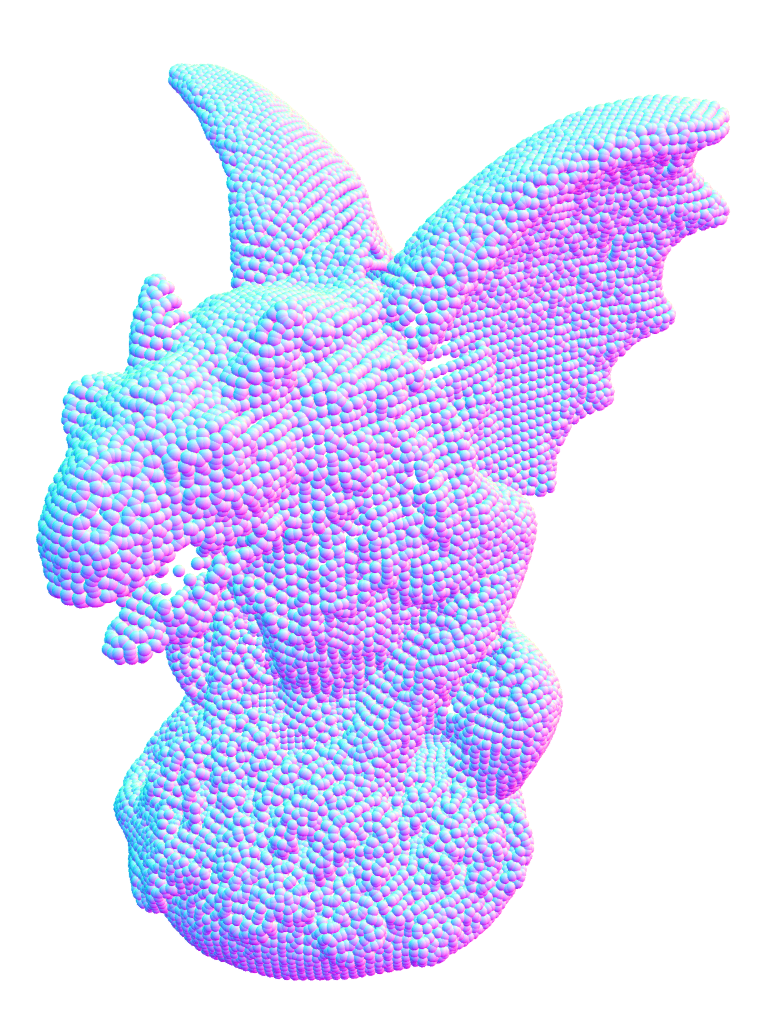
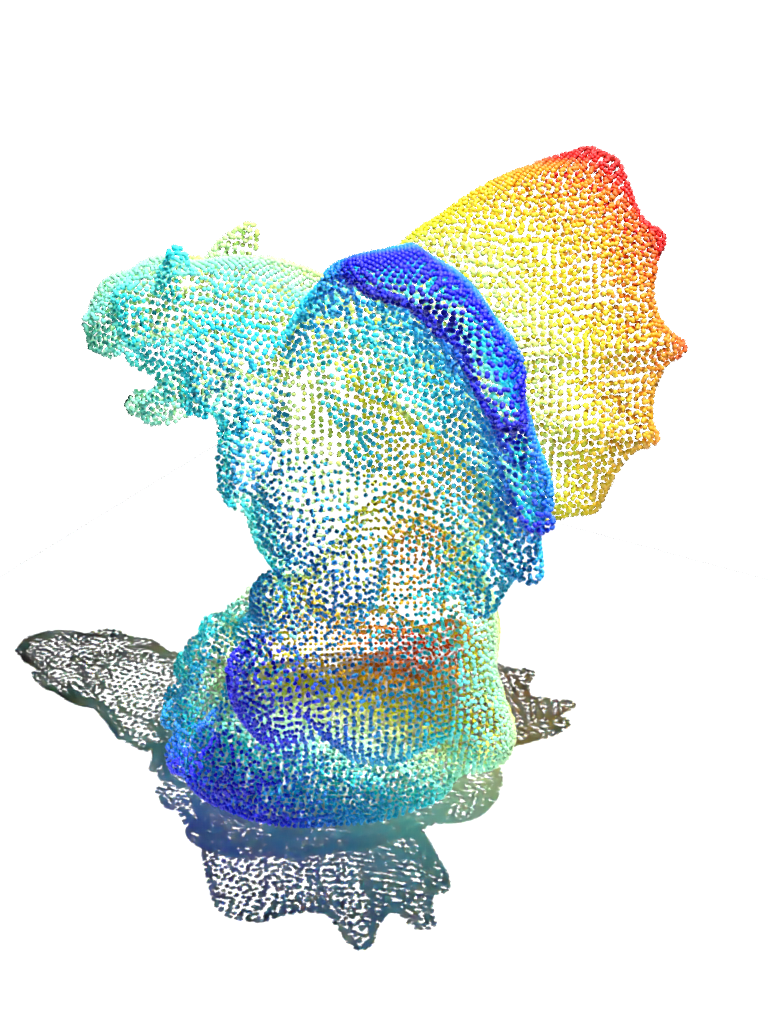
rendering gif working well

diff --git a/example/python/render.py b/example/python/render.py
@@ -49,7 +49,7 @@ class BlenderRender:
 
         self.remove_model = True
 
-        self.rotate = False
+        self.rotation = None
 
         collection = bpy.data.collections.get("Collection")
         if collection:
@@ -77,7 +77,7 @@ class BlenderRender:
 
 
 
-    def add_camera(self, cam_file, resolution=(1024, 1024)):
+    def add_camera(self, cam_file, resolution=(1024, 1024), frames=None):
 
 
 
@@ -105,11 +105,21 @@ class BlenderRender:
         bpy.context.scene.render.resolution_x = resolution[0]
         bpy.context.scene.render.resolution_y = resolution[1]
 
+
+
+        self.camera.keyframe_insert(data_path='location',frame=0)
+
+        self.camera.location = self.rotate(location,(0,math.pi/5,-math.pi/2))
+        self.camera.keyframe_insert(data_path='location',frame=frames-1)
+
+        ttc=self.camera.constraints.new(type='TRACK_TO')
+        ttc.target = self.object
+
         bpy.context.scene.camera = self.camera
 
 
 
-    def add_light(self, location, energy=15):
+    def add_light(self, location, energy=1000000):
 
         # create light datablock, set attributes
         light_data = bpy.data.lights.new(name="light", type='POINT')
@@ -221,7 +231,14 @@ class BlenderRender:
         return MplColorHelper(cmap, points[:, axis].min(), points[:, axis].max()).get_rgb(sign * points[:, axis])
         # cols=MplColorHelper(cmap, accuracy.min(), accuracy.max()).get_rgb(accuracy)
 
-    def render_point_cloud(self, file, rotate=None, out=None):
+    def rotate(self, object, rotation_vector):
+
+
+        return object @ Matrix.Rotation(-rotation_vector[0], 3, "X") \
+               @ Matrix.Rotation(-rotation_vector[1], 3, "Y") \
+               @ Matrix.Rotation(   -rotation_vector[2], 3, "Z")
+
+    def add_point_cloud(self, file, rotation=None, out=None):
 
 
         """this is the one to use for point cloud rendering"""
@@ -245,13 +262,12 @@ class BlenderRender:
         else:
             print("ERROR: {} is not a supported file ending for point cloud rendering".format(os.path.splitext(file)[1]))
 
-        if rotate is not None:
-            points = points @ Matrix.Rotation(-rotate[0], 3, "X") @ Matrix.Rotation(-rotate[1], 3,
-                                                                                         "Y") @ Matrix.Rotation(
-                -rotate[2], 3, "Z")
-            normals = normals @ Matrix.Rotation(-rotate[0], 3, "X") @ Matrix.Rotation(-rotate[1], 3,
-                                                                                           "Y") @ Matrix.Rotation(
-                -rotate[2], 3, "Z")
+        if rotation is not None:
+            points = self.rotate(points,rotation)
+            normals = self.rotate(normals,rotation)
+
+
+        self.model_bb = np.array((points.min(axis=0),points.max(axis=0)))
 
 
         # # normals to rotmat
@@ -287,21 +303,64 @@ class BlenderRender:
                      randomize_rotation=False,
                      name=pc)
 
+
         obj = bpy.context.scene.objects[pc]
+        self.object = obj
         self.scene_coll.objects.unlink(obj)
         self.coll.objects.link(obj)
 
-        outfile = out if out else str(Path(file).with_suffix(".png"))
+        return obj
+
+
+
+
+
+    def render(self,outfile):
+
+        # outfile = out if out else str(Path(file).with_suffix(".png"))
         bpy.context.scene.render.filepath = outfile
         bpy.ops.render.render(write_still=True)
         print("Renderer to", outfile)
 
-        if self.remove_model:
-            self.coll.objects.unlink(obj)
+
+    def add_shadow_catcher(self):
+
+        # radius = np.max(np.abs(self.model_bb[0]-self.model_bb[1]))
+
+        size = max(self.object.dimensions[0],self.object.dimensions[1])
+        location = Vector((self.object.location[0],self.object.location[1],self.object.location[2]-(self.object.dimensions[2]/2)))
+
+        bpy.ops.mesh.primitive_plane_add(size=size*2, location=location)
+
+        plane = bpy.data.objects['Plane']
+        # plane.select = True
+        obj = bpy.context.active_object
+        self.scene_coll.objects.unlink(obj)
+        self.coll.objects.link(obj)
+
+        return plane
+
+
+    # def add_shadow_catcher(self):
+    #     k = 5
+    #     scale = self.object.dimensions*k
+    #
+    #     bpy.ops.mesh.primitive_cube_add(size=1.0, calc_uvs=True, enter_editmode=False, align='WORLD',
+    #                                     location=(0.0, 0.0, ((k-1)*self.object.dimensions[2])/2.1), rotation=(0.0, 0.0, 0.0), scale=scale)
+    #
+    #
+    #     plane = bpy.data.objects['Cube']
+    #     # plane.select = True
+    #     obj = bpy.context.active_object
+    #     self.scene_coll.objects.unlink(obj)
+    #     self.coll.objects.link(obj)
+    #
+    #     return plane
+
+
 
     def apply_render_settings(self, mode="normal"):
 
-        self.rotate = None
 
         match mode:
             case "normal":
@@ -327,7 +386,8 @@ class BlenderRender:
         self.marker_scale = 0.25
 
         # set in blender in "output properties" -> format -> resolution
-        self.resolution = (768, 1024)
+        # self.resolution = (768, 1024)
+        self.resolution = (600, 800)
         bpy.context.scene.view_settings.exposure = 0.4
         bpy.context.scene.view_settings.gamma = 1.6
         bpy.context.scene.view_settings.look = 'Medium High Contrast'
@@ -350,14 +410,43 @@ if __name__ == "__main__":
 
     br.apply_render_settings()
 
-    br.add_camera(os.path.join(path,model,"camera.npz"), br.resolution)
 
     # br.apply_global_render_settings(renderer='BLENDER_WORKBENCH', samples=5)
     br.apply_global_render_settings(renderer='CYCLES', samples=5)
 
-    br.render_point_cloud(os.path.join(path,model,"pointcloud.ply"), rotate=[math.pi/2,0,0])
+    pc = br.add_point_cloud(os.path.join(path,model,"pointcloud.ply"), rotation=[math.pi/2,math.pi,0])
+
+
+    frames = 50
+    br.add_camera(os.path.join(path,model,"camera.npz"), br.resolution, frames = frames)
+
+    plane = br.add_shadow_catcher()
+
+
+
+
+
+    light = Vector((0,0,br.object.dimensions[2]*6))
+    light = br.rotate(light,[0,math.pi/12,0])
+    br.add_light(light,10**7)
+
+
+    os.makedirs(os.path.join(path,model,"renders"),exist_ok=True)
+    # n = 5
+    # for i in range(n):
+    #     br.light.rotation_euler()
+    #     br.camera.rotation_euler()
+    #     br.render(os.path.join(path,model,"renders","{}.png".format(i)))
+
+
+    for i in range(frames):
+        bpy.context.scene.frame_set(i)
+        br.render(os.path.join(path,model,"renders","{}.png".format(i)))
 
     if br.remove_model:
+        br.coll.objects.unlink(pc)
+        br.coll.objects.unlink(plane)
+        bpy.data.objects.remove(br.light, do_unlink=True)
         bpy.data.objects.remove(br.camera, do_unlink=True)
 
     a=5

diff --git a/example/python/gif.py b/example/python/gif.py
@@ -1,0 +1,38 @@
+import numpy as np
+from PIL import Image
+from glob import glob
+import os
+from copy import deepcopy
+
+images = []
+
+
+path = "/home/rsulzer/cpp/psdr/example/data/"
+model = "gargoyle"
+
+
+files = glob(os.path.join(path,model,'renders','*'))
+files.sort(key=os.path.getmtime)
+
+for f in files:
+
+    image = Image.open(os.path.join(path,model,'renders',f))
+
+    new_image = Image.new("RGBA", image.size, "WHITE")  # Create a white rgba background
+    new_image.paste(image, (0, 0), image)  # Paste the image on the background. Go to the links given below for details.
+    new_image.convert('RGB').save('test.jpg', "JPEG")
+
+    images.append(new_image)
+
+
+
+
+images = np.array(images)
+images = np.hstack((images,np.flip(images)))
+
+images = list(images)
+
+images[0].save(os.path.join(path, model + ".gif"),
+               save_all=True, append_images=images[1:], optimize=True, duration=100, loop=0)
+
+
